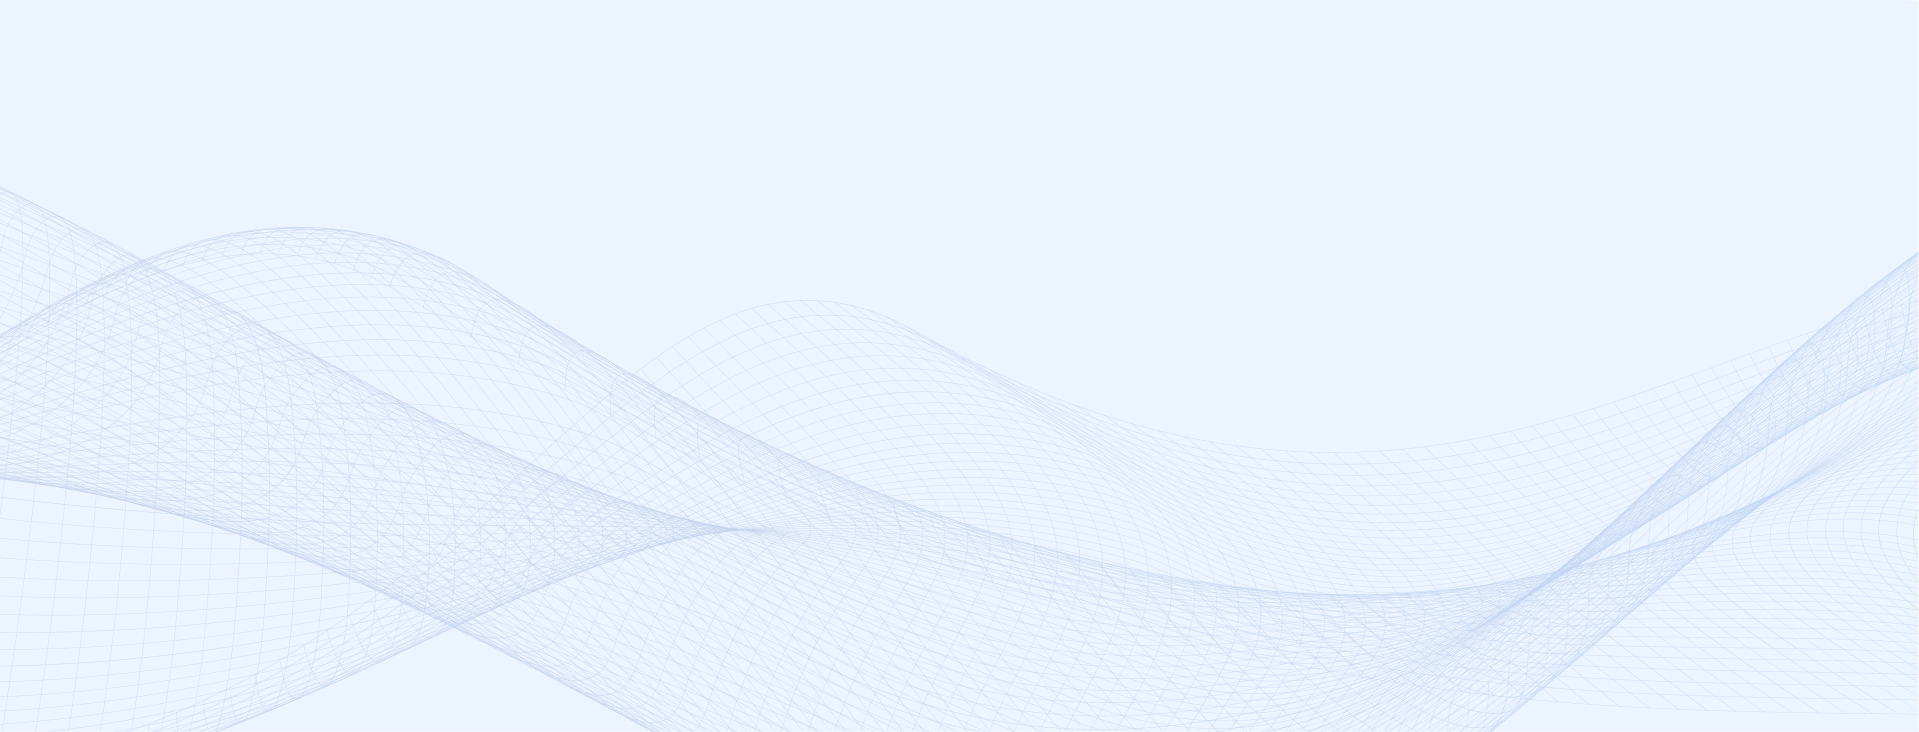
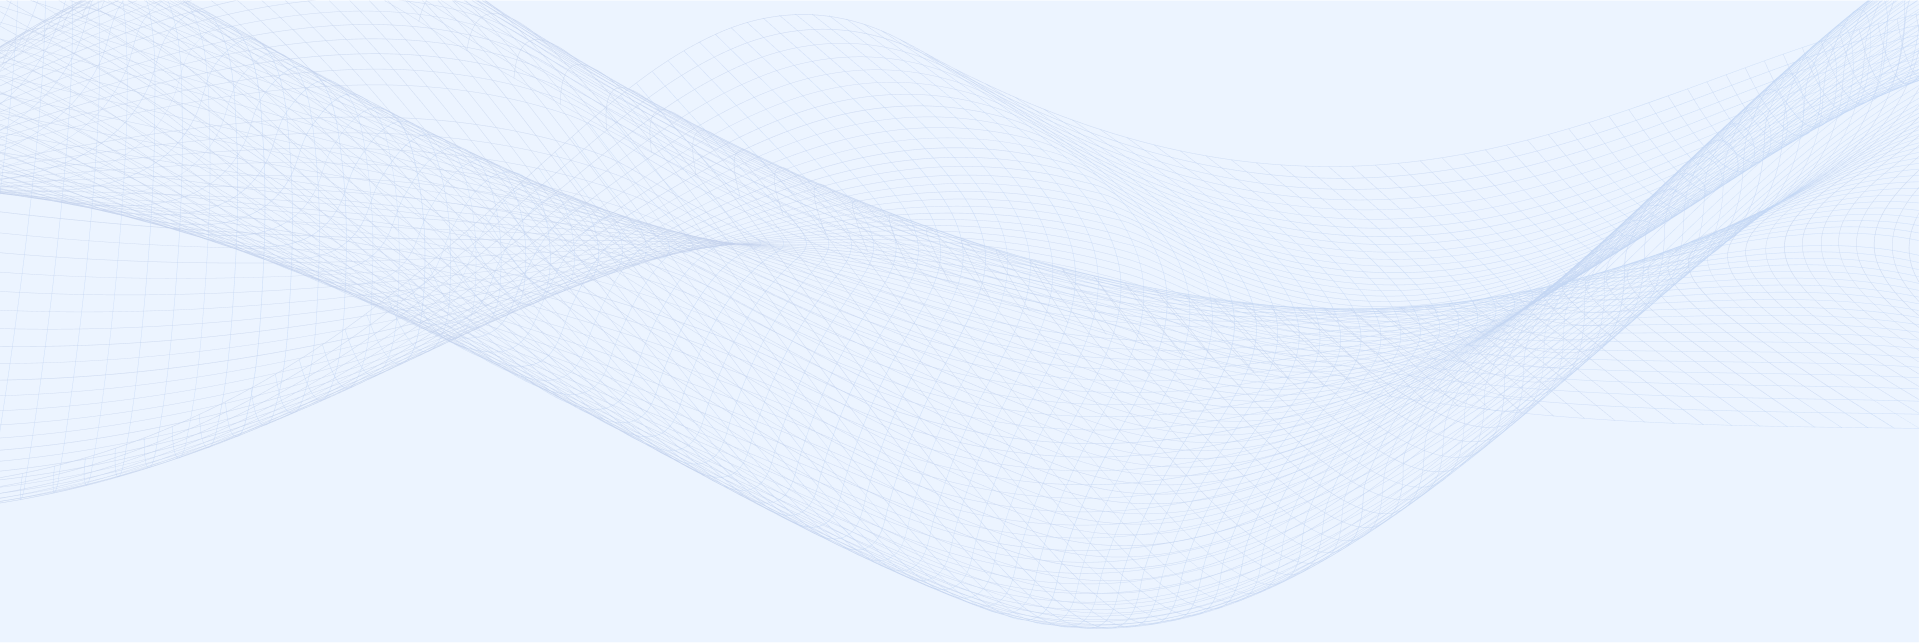
EOD push aboutus page added and content edited

diff --git a/src/about-us.html b/src/about-us.html
@@ -73,24 +73,25 @@
 
   
 
-    <section class="hero-banner d-flex justify-content-center align-items-center" style=" background-image: url('./assets/images/homebanner.png');">  
+    <section class="hero-banner d-flex justify-content-center align-items-center" style=" background-image: url('./assets/images/about-us-hero-bg.png');">  
         <div class="container">
             <div class="text-center bottom-padding"><!-- if values for hero-desc and link for the button doesnt have value  add class "bottom-padding"-->
                 <div class="hero-sub-title">
-                    <h2>Australia's preferred recruitment agency across private and public sectors</h2>
+                    <h2>Australia's preferred recruitment agency</h2>
                 </div>
                 <div class="hero-title">
-                    <h1>Ignite your workforce</h1>
+                    <h1>About us</h1>
                 </div>
             </div>           
         </div>
     </section>
-    <section class="full-width-text blue-bg">
+    <section class="full-width-text">
         <div class="container">
-            <h2><span>More than just recruiters</span></h2>
-            <p>At Ignite, our vision is to be one of Australia’s leading providers of recruitment, on-demand and people services. This vision will be delivered by our people. </p>
-            <p>To set our <a href="#" class="underlined">recruiters</a> up for success, over decades of operation, we have cultivated an industry-leading culture. Different thinking is encouraged and rewarded by providing an environment where employees feel supported and trusted. </p>
-            <p>Internally, this provides staff with pathways to think critically and creatively. Externally, this provides our clients with deeper, more effective recruitment solutions.</p>
+            <h2><span>Ignite your workforce</span></h2>
+            <p>As our name suggests, we're the spark that sets your bottom line alight by matching outstanding talent to your needs and culture.</p>
+            <p>As a publicly listed (<a href="#" class="underlined">ASX: IGN</a>) recruitment agency with four decades of experience, Ignite is dedicated to delivering exceptional recruitment, across Australia's public and private sectors.</p>
+            <p>The Ignite difference is key. We devote ourselves to creating and maintaining long-term client relationships through ongoing support well after placing the right candidate. And it pays off. Our clients come back to us time and time again because they know we are leaders in recruitment. Some of our clients have been with us for thirty years.</p>
+            <p>Plus, we've established an exemplary performance track record and marketplace standing. With our advanced methodologies, deep industry knowledge, and strong stakeholder relationships, we have earned a reputation as Australia's trusted talent advisor.</p>
         </div>
     </section>
 
@@ -119,16 +120,16 @@
             </div>
         </div>
     </section>
-    <section class="home-about">
-        <div class="home-about-container container">
+    <section class="three-column-info blue-bg">
+        <div class="three-column-info-container container">
             <div class="section-title">
-                <h2><span>About Us</span></h2>
+                <h2><span>Why choose Ignite recruitment?</span></h2>
             </div>
             <div class="section-description">
-                With our advanced methodologies, deep industry knowledge, and strong stakeholder relationships, we have earned a reputation as Australia's trusted talent advisor.
+                
             </div>
 
-            <div class="home-about-stats-row">
+            <div class="three-column-info-stats-row">
                 <div class="column-container">
                     <div class="column-inner-container">
                         <div class="column-number">24<span>hr</span></div>
@@ -166,24 +167,42 @@
                     </div>                    
                 </div>
             </div>
-            <div class="wysiwyg-wrapper"></div>
+            <div class="wysiwyg-wrapper">
+                <p>At Ignite, we recognise the importance of finding the right candidate. Our experienced recruitment consultants work closely with you to understand your business, requirements, and culture thoroughly, ensuring that we source exceptional candidates with the right combination of technical and soft skills to thrive in your organisation.</p>
+
+                <div>There are many reasons to partner with Ignite for your next recruitment challenge. Here are just some:</div>
+                <ul>
+                    <li>national footprint</li>
+                    <li>5 offices across the country</li>
+                    <li>ASX-listed company</li>
+                    <li>4 decades of operation</li>
+                    <li>in-house national resource centre</li>
+                    <li>a top 10 recruitment supplier to the federal government</li>
+                    <li>utilise advanced recruitment methodology and processes</li>
+                    <li>immense database of over 870,000 candidates</li>
+                    <li>specialise in all levels of government recruitment</li>
+                    <li>committed to diversity, inclusivity and parity</li>
+                    <li>provide temporary, permanent and contract solutions</li>
+                    <li>established fruitful partnerships</li>
+
+                </ul>
+                <p>We utilise several artificial intelligence, behavioural and psychometric assessment tools and platforms, including Sapia, Talent ID, Reejig and Faethm, to measure competencies needed for today's fast-moving, diverse workplaces.</p>
+            </div>
         </div>
 
     </section>
-    <section class="full-width-text blue-bg">
+    <section class="full-width-text">
         <div class="container">
-            <h2><span>More than just recruiters</span></h2>
-            <p>At Ignite, our vision is to be one of Australia’s leading providers of recruitment, on-demand and people services. This vision will be delivered by our people. </p>
-            <p>To set our <a href="#" class="underlined">recruiters</a> up for success, over decades of operation, we have cultivated an industry-leading culture. Different thinking is encouraged and rewarded by providing an environment where employees feel supported and trusted. </p>
-            <p>Internally, this provides staff with pathways to think critically and creatively. Externally, this provides our clients with deeper, more effective recruitment solutions.</p>
+            <h2><span>After the placement</span></h2>
+            <p>Our aftercare is second to none. It's not transactional; we don't just place a candidate with your organisation and then forget about you. It's a long-term relationship where we guide you through ups and downs, help you grow, provide support and form a deep level of trust through coaching, advice, role-playing and guidance and continue to tend to your organisation's needs and goals.</p>
         </div>
     </section>  
     <section class="icons-section" style=" background-image: url('./assets/images/specialisation-bg.png');">
         <div class="icons-container container">
             <div class="section-title">
-                <h2><span>Our Specialisation</span></h2>
+                <h2><span>Tailored recruitment for the following specialisations</span></h2>
             </div>
-            <div class="section-description">We’re experts in recruitment, technology, human resources and, above all else, people.<br>Our diversified services gives us a unique point-of-difference to enhance the business strategy of businesses through their people assets.</div>
+            <div class="section-description">At Ignite, we specialise in providing exceptional recruitment services for a range of areas, ensuring that we find the right candidates to meet your unique needs.</div>
             <div class="icons-row column-5"><!--add condition to select howmany columns column-5,column-4,threeb(less than 4) -->
                 <div class="item">
                 
@@ -248,33 +267,15 @@
         </div>
         
     </section>
-    <section class="card-carousel white-bg-vector">
+    <section class="card-carousel">
         <div class="container">
             <h2 class="text-center"><span>Types of recruitment</span></h2>
             <div class="top-text-wrapper px-2 text-center">
-                <p>test<p>
+                <p>At Ignite, we deliver leading recruitment services to public and private organisations of all sizes and industries, so you can find exceptional talent to achieve your goals, including:<p>
             </div>
             <div class="card-carousel-container">
                 <div class="card">
                     <div class="card-img">
-                        <img src="./assets/images/permanent-recruitment.png"/>
-                    </div>
-                    <div class="card-body">
-                        <h2>Permanent Recruitment</h2>
-                        <a href="/" class="btn btn-arrow pl-0 py-0">Learn More</a>
-                    </div>
-                </div>
-                <div class="card">
-                    <div class="card-img">
-                        <img src="./assets/images/temporary-recruitment.png"/>
-                    </div>
-                    <div class="card-body">
-                        <h2>Temporary Recruitment</h2>
-                        <a href="/" class="btn btn-arrow pl-0 py-0">Learn More</a>
-                    </div>
-                </div>
-                <div class="card">
-                    <div class="card-img">
                         <img src="./assets/images/contract-recruitment.png"/>
                     </div>
                     <div class="card-body">
@@ -302,27 +303,44 @@
                 </div>
                 <div class="card">
                     <div class="card-img">
-                        <img src="./assets/images/contract-recruitment.png"/>
+                        <img src="./assets/images/Technology-solutions.png"/>
                     </div>
                     <div class="card-body">
-                        <h2>Contract Recruitment</h2>
+                        <h2>Technology solutions</h2>
                         <a href="/" class="btn btn-arrow pl-0 py-0">Learn More</a>
                     </div>
                 </div>
+                <div class="card">
+                    <div class="card-img">
+                        <img src="./assets/images/On-demand-IT-services.png"/>
+                    </div>
+                    <div class="card-body">
+                        <h2>On-demand IT services</h2>
+                        <a href="/" class="btn btn-arrow pl-0 py-0">Learn More</a>
+                    </div>
+                </div>
+                <div class="card">
+                    <div class="card-img">
+                        <img src="./assets/images/Government-recruitment.png"/>
+                    </div>
+                    <div class="card-body">
+                        <h2>Government recruitment</h2>
+                        <a href="/" class="btn btn-arrow pl-0 py-0">Learn More</a>
+                    </div>
+                </div>
+                
             </div>
             <div class="bottom-text-wrapper px-2 text-center">
-                <p>test</p>
+                <p>We are passionate about igniting the potential of people and pride ourselves on supporting the needs of our clients and candidates. With over 70 specialists across 5 offices in Australia, we have the expertise and resources to provide unparalleled support for all your talent needs. </p>
             </div>
         </div>
     </section>
-
-    
 
     <section class="blue-banner no-padding"><!-- no-padding class is an option for acf -->
         <div class="content-container container">
             
             <div class="section-title">
-                <h2>Connect with our expert consultants today.</h2>
+                <h2>Unlock the full potential of your business today with our tailored approach to recruitment.</h2>
             </div>
             <div class="btn-wrapper">
                 <a href="/" class="btn btn-solid">Contact Us</a>
@@ -334,16 +352,16 @@
     <section class="testimonial-slider">
         <div class="testimonial-container container">
             <div class="section-title">
-                <h2><span>About Ignite</span></h2>
+                <h2></h2>
             </div>
             <div class="section-description">
-                With over 70 employees across 5 offices in Australia, Ignite has a long and rich unrivalled history with great clients spanning 40 years. Ignite has worked hard to establish itself as an organisation offering genuine support in a high-performing culture that people are enthusiastic to participate in. And now it’s your turn to be welcomed. 
+                
             </div>
             <div class="section-subtitle">
-                Hear what our employee have to say
+                
             </div>                        
 
-            <div class="testimonial-row ">
+            <div class="testimonial-row">
                 <div class="testimonial-cards">
                     <div class="testimonial-card-inner">
                         
@@ -369,85 +387,6 @@
                     </div>
 
                 </div>
-                <div class="testimonial-cards">
-                    <div class="testimonial-card-inner">
-                    
-                    <div class="testimony-wrapper">
-                        <div class="testimonial-text">“Ignite is a supportive and flexible environment, with a strong collaborative team. We have the opportunity to work with federal government which provides challenging learning opportunities. The People Services team is focused on providing excellent outcomes for clients across varied and interesting projects!”</div>
-                        <div class="reviewer-details">
-                            <div class="reviewer-name"></div>
-                            <div class="reviewer-position">Client Solutions Consultant – Talent Solutions (ACT)</div>
-                        </div>
-                    </div>
-                    </div>
-                    
-                </div>
-                <div class="testimonial-cards">
-                    <div class="testimonial-card-inner">
-                        
-                        <div class="testimony-wrapper">
-                            <div class="testimonial-text">“I have worked at Ignite for almost a decade as an IT recruitment consultant in our Melbourne team. I’m given lots of autonomy in how I run my desk and provided with the tools and support I need to do it effectively. Ignite isn’t the largest recruiter out there, but we have a close-knit and collaborative team which manifests a strong internal culture. I love working at Ignite and am excited for our future growth.”</div>
-                            <div class="reviewer-details">
-                                <div class="reviewer-name"></div>
-                                <div class="reviewer-position">Senior Recruitment Consultant IT & Digital (VIC)</div>
-                            </div>
-                        </div>
-                    </div>
-
-                </div>
-                <div class="testimonial-cards">
-                    <div class="testimonial-card-inner">
-                        
-                        <div class="testimony-wrapper">
-                            <div class="testimonial-text">“I have been working in the On Demand team for over a year. On Demand provides us with a conducive and employee-friendly work environment, which enables me to provide high quality service to our candidates and clients. All individuals are well supported and I have a very healthy relationship with my manager. Working with the Resource On Demand team has been a great experience, a complete package within itself!”</div>
-                            <div class="reviewer-details">
-                                <div class="reviewer-name"></div>
-                                <div class="reviewer-position">Resources On Demand Consultant – On Demand (NSW)</div>
-                            </div>
-                        </div>
-                    </div>
-
-                </div>
-                <div class="testimonial-cards">
-                    <div class="testimonial-card-inner">
-                    
-                    <div class="testimony-wrapper">
-                        <div class="testimonial-text">“Ignite is a supportive and flexible environment, with a strong collaborative team. We have the opportunity to work with federal government which provides challenging learning opportunities. The People Services team is focused on providing excellent outcomes for clients across varied and interesting projects!”</div>
-                        <div class="reviewer-details">
-                            <div class="reviewer-name"></div>
-                            <div class="reviewer-position">Client Solutions Consultant – Talent Solutions (ACT)</div>
-                        </div>
-                    </div>
-                    </div>
-                    
-                </div>
-                <div class="testimonial-cards">
-                    <div class="testimonial-card-inner">
-                        
-                        <div class="testimony-wrapper">
-                            <div class="testimonial-text">“I have worked at Ignite for almost a decade as an IT recruitment consultant in our Melbourne team. I’m given lots of autonomy in how I run my desk and provided with the tools and support I need to do it effectively. Ignite isn’t the largest recruiter out there, but we have a close-knit and collaborative team which manifests a strong internal culture. I love working at Ignite and am excited for our future growth.”</div>
-                            <div class="reviewer-details">
-                                <div class="reviewer-name"></div>
-                                <div class="reviewer-position">Senior Recruitment Consultant IT & Digital (VIC)</div>
-                            </div>
-                        </div>
-                    </div>
-
-                </div>
-                <div class="testimonial-cards">
-                    <div class="testimonial-card-inner">
-                        
-                        <div class="testimony-wrapper">
-                            <div class="testimonial-text">“I have been working in the On Demand team for over a year. On Demand provides us with a conducive and employee-friendly work environment, which enables me to provide high quality service to our candidates and clients. All individuals are well supported and I have a very healthy relationship with my manager. Working with the Resource On Demand team has been a great experience, a complete package within itself!”</div>
-                            <div class="reviewer-details">
-                                <div class="reviewer-name"></div>
-                                <div class="reviewer-position">Resources On Demand Consultant – On Demand (NSW)</div>
-                            </div>
-                        </div>
-                    </div>
-
-                </div>
-                
                 <div class="testimonial-cards">
                     <div class="testimonial-card-inner">
                     

diff --git a/src/Home-page.html b/src/Home-page.html
@@ -431,8 +431,8 @@
     
         
         </section>
-    <section class="home-about">
-        <div class="home-about-container container">
+    <section class="three-column-info">
+        <div class="three-column-info-container container">
             <div class="section-title">
                 <h2><span>About Us</span></h2>
             </div>
@@ -440,7 +440,7 @@
                 With our advanced methodologies, deep industry knowledge, and strong stakeholder relationships, we have earned a reputation as Australia's trusted talent advisor.
             </div>
 
-            <div class="home-about-stats-row">
+            <div class="three-column-info-stats-row">
                 <div class="column-container">
                     <div class="column-inner-container">
                         <div class="column-number">24<span>hr</span></div>

diff --git a/src/styles/sections/_three-column-info.scss b/src/styles/sections/_three-column-info.scss
@@ -1,9 +1,10 @@
-.home-about{
-    .home-about-container{
+.three-column-info{
+    .three-column-info-container{
         
         .section-title{
             display: flex;
             justify-content: center;
+            margin-bottom: 38px;
 
             @media (max-width:768px) {
                 margin-bottom:20px;                  
@@ -23,7 +24,7 @@
 
         }
         
-        .home-about-stats-row{
+        .three-column-info-stats-row{
             display: flex;
             justify-content: center;
             flex-wrap: wrap;

diff --git a/src/styles/sections/_testimonial-slider.scss b/src/styles/sections/_testimonial-slider.scss
@@ -2,7 +2,7 @@
   
     padding-top: 25px;
     padding-bottom: 25px;
-    background-color: #ECF4FF;
+    
     
   .testimonial-container{
       .section-title{
@@ -34,7 +34,9 @@
 
             list-style: none;
             text-align: center;
-            
+            li:only-child{
+              display: none;
+            }
 
             li {
               display: flex;

diff --git a/src/join-us.html b/src/join-us.html
@@ -215,7 +215,7 @@
         </div>
     </section>
 
-    <section class="testimonial-slider">
+    <section class="three-column-info blue-bg">
         <div class="testimonial-container container">
             <div class="section-title">
                 <h2><span>About Ignite</span></h2>

diff --git a/src/styles/main.scss b/src/styles/main.scss
@@ -59,7 +59,7 @@
   'sections/two-colum-text-form',
   'sections/_two-column-banner',
   'sections/_faq-accordion',
-  'sections/_home-about',
+  'sections/_three-column-info',
   'sections/_profile-carousel',
   'sections/_blue-banner',
   'sections/_Fullwidth-card',

diff --git a/src/styles/sections/_blue-banner.scss b/src/styles/sections/_blue-banner.scss
@@ -34,5 +34,5 @@
 
 .no-padding{
     padding: 0px 0px;
-    margin-bottom: 70px;
+    // margin-bottom: 70px;
 }
